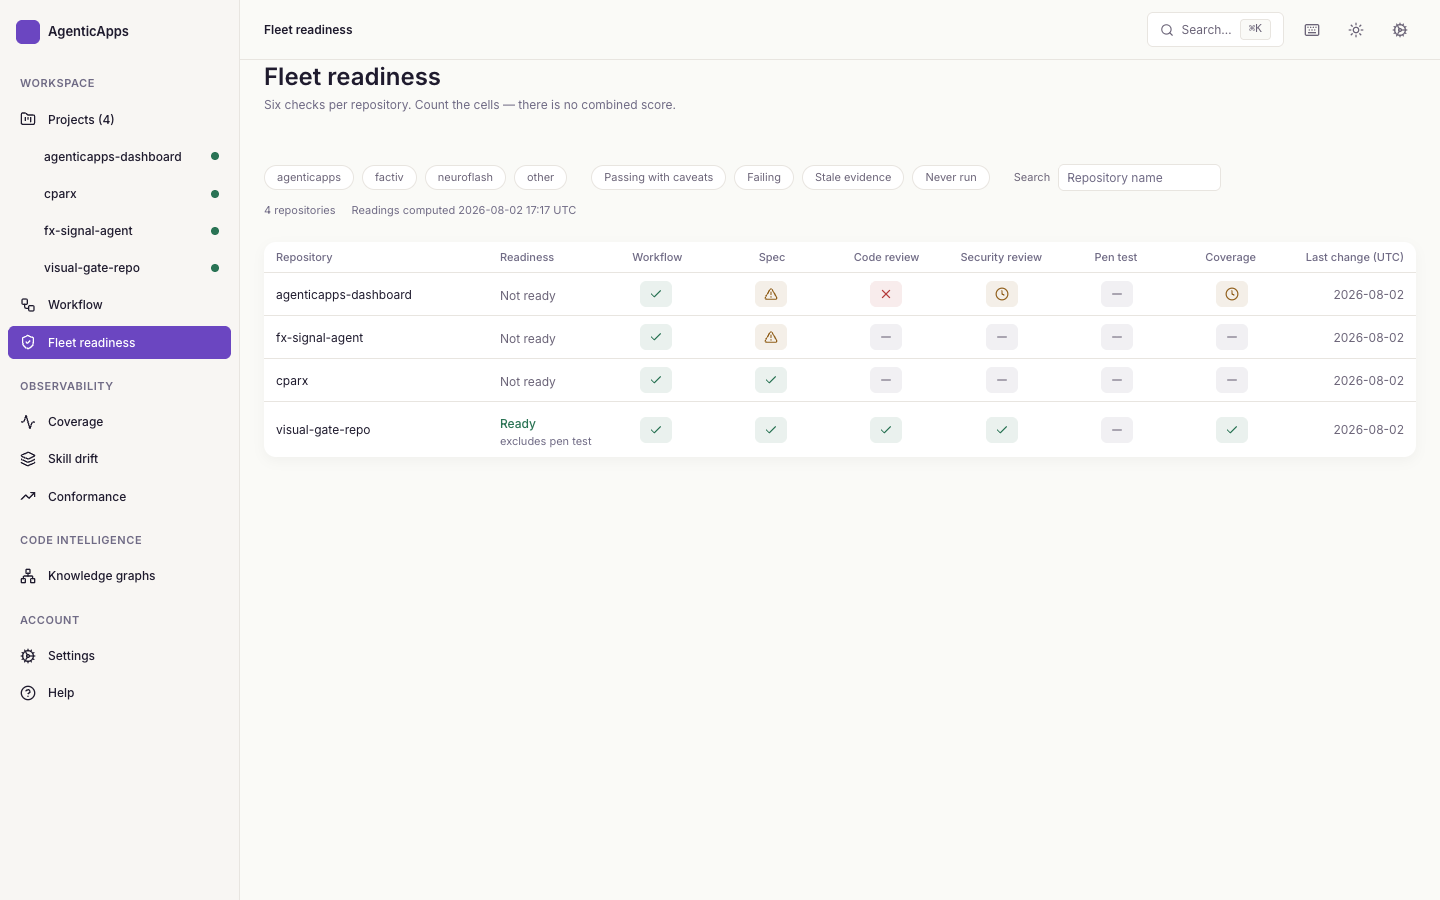
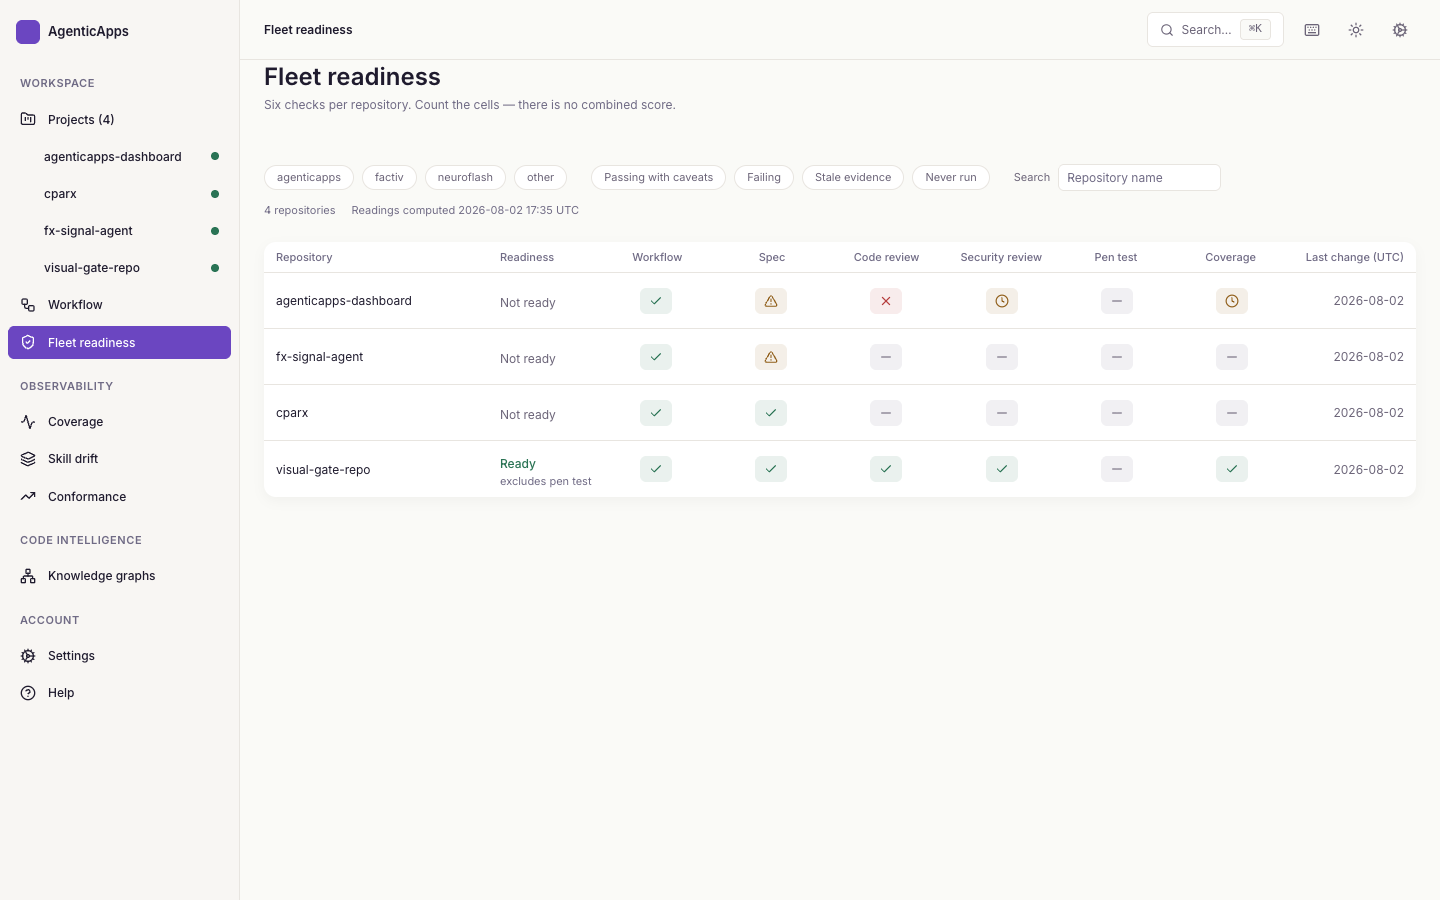
fix: close two critique findings, and record a failing design gate
impeccable:critique returns composite 67.5 against a >=80 floor. Recorded
in CRITIQUE.md rather than waived — the waiver clause is the operator's.

Fixed, both mine:

P1 — the advisory concept was stated once, on the fleet verdict, and
nowhere at the cell a reader clicks through to. The words "advisory" and
"does not block" appeared nowhere in the product, and the pen-test cell's
accessible name was byte-identical on a repo it blocked and one it did
not. Remedy copy now says it; the cell carries it.

P3 — the two-line row broke the table's rhythm at 55px vs 43px, and was
latent besides: the string measures 91.48px in an 88px box, fitting by
rounding luck, and exclusionPhrase already supports lists. Fixed height
on every row, uniform 56px measured.

P2 kept deliberately on the reviewer's own condition — "excludes" stays
only if paired with the P1 sentence, and it now is. Their suggested
alternative restates the cell, which fails this change's own requirement
that the verdict name what it excludes rather than sit next to it.

P4 and P5 recorded, not fixed: both are pre-existing surfaces this change
only qualifies, and P5 needs a blocking-count vocabulary decided rather
than invented in a fix.

Detector: 0 findings on the changed surface. Its reference file documents
two CLI commands that do not exist, one of which exits 0 having scanned
nothing — recorded so a future run does not silently skip it.

diff --git a/packages/spa/src/components/panels/readiness/ReadinessIndicator.tsx b/packages/spa/src/components/panels/readiness/ReadinessIndicator.tsx
@@ -202,10 +202,17 @@ function disclose(check: CheckResult): string {
   // the two render identically and read identically, while ordering
   // differently. readinessOrder.ts promises "a reader can reconstruct any
   // pairwise result by counting cells"; this is what makes that true.
+  // An advisory check's `never` renders as the same grey dash as a blocking
+  // one, so without this the cell that a "Ready, excludes X" verdict points at
+  // is byte-identical on a repo it blocked and one it did not.
+  const advisory =
+    check.status === 'never' && check.source === 'derived' && isAdvisoryCheck(check.id)
+      ? ', advisory: does not block readiness'
+      : ''
   const head =
     check.error !== null
       ? `${CHECK_LABELS[check.id]} — could not be evaluated`
-      : `${CHECK_LABELS[check.id]} — ${word}`
+      : `${CHECK_LABELS[check.id]} — ${word}${advisory}`
   const body = `${value === null ? '' : `${value}, `}${formatObservedAt(check.at)}, ${check.source}`
   const reason = check.error?.message ?? check.summary.trim()
   return `${head}, ${body}${reason === '' ? '' : ` — ${reason}`}`

diff --git a/packages/agent/src/lib/readiness/remedy.ts b/packages/agent/src/lib/readiness/remedy.ts
@@ -131,7 +131,11 @@ function penTestRemedy(status: CheckStatus): string {
       return 'A current penetration test is declared in .agenticapps/readiness.json. Nothing to do until it expires.'
     case 'na':
     case 'never':
-      return 'This check is never derived. Once a penetration test has been performed, declare its result in .agenticapps/readiness.json with evidence, the reviewed commit, and a validUntil date.'
+      // Says outright that this check does not block. The verdict on the fleet
+      // row and the detail header both name what they exclude, and this is
+      // where a reader arrives after reading that — so it has to answer the
+      // question that sent them, not restate the status.
+      return 'This check has no derived signal, so while it is undeclared it does not block a ready verdict. Once a penetration test has been performed, declare its result in .agenticapps/readiness.json with evidence, the reviewed commit, and a validUntil date to have it counted.'
   }
 }
 

diff --git a/packages/spa/src/components/panels/readiness/FleetPage.tsx b/packages/spa/src/components/panels/readiness/FleetPage.tsx
@@ -204,7 +204,14 @@ function FleetRow({
           </span>
         )}
       </td>
-      <td className="px-3 py-2 align-middle whitespace-nowrap">
+      {/*
+        A fixed height, not an intrinsic one. Only rows carrying a disclosure
+        have two lines, so without this the table's rhythm breaks on exactly the
+        rows the eye should not be drawn to — and it would break further the
+        moment a second check becomes advisory and the phrase wraps. Uniform
+        height costs 12px per row and makes the fleet scannable at any mix.
+      */}
+      <td className="h-14 px-3 py-2 align-middle whitespace-nowrap">
         <ReadyVerdict ready={repo.ready} checks={repo.checks} />
       </td>
       {/*

diff --git a/openspec/changes/close-readiness-spec-gaps/CRITIQUE.md b/openspec/changes/close-readiness-spec-gaps/CRITIQUE.md
@@ -1,0 +1,99 @@
+# impeccable:critique — close-readiness-spec-gaps
+
+Routes: `/fleet` and `/repos/{id}`, 1440×900, both appearances.
+Register: **product**. Two assessments, run in isolation.
+
+## Result: composite 67.5 — BELOW the ≥ 80 floor
+
+Nielsen total **27 / 40**. Composite = (27 / 40) × 100.
+
+| # | Heuristic | Score |
+|---|---|---|
+| 1 | Visibility of system status | 3 |
+| 2 | Match with the real world | 3 |
+| 3 | User control and freedom | 2 |
+| 4 | Consistency and standards | 3 |
+| 5 | Error prevention | 3 |
+| 6 | Recognition rather than recall | 2 |
+| 7 | Flexibility and efficiency | 3 |
+| 8 | Aesthetic and minimalist design | 3 |
+| 9 | Recognise / diagnose / recover | 3 |
+| 10 | Help and documentation | 2 |
+
+Cognitive load: **4 failures — critical**.
+
+## Assessment B — deterministic detector
+
+`npx impeccable detect --json packages/spa/src/components/panels/readiness/`
+→ **0 findings, exit 0.** Clean on the changed surface.
+
+Wider `components/` tree: 4 × `broken-image`, all in `.test.tsx` fixtures.
+Pre-existing, none in files this change touched, false positives for the
+detector's purpose.
+
+**The reference file's CLI is stale.** It documents `npx impeccable --json` and
+`npx impeccable live`; the installed CLI has neither. The bare-flag form returns
+`[]` and exits 0, which reads as "clean" while having scanned nothing. Recorded
+because a future run that trusts the reference will silently skip Assessment B.
+
+## Assessment A — design review
+
+**AI slop verdict: CLEAN.** Zero gradients, zero `backdrop-filter`, no
+side-stripe borders, no dark glows, no hero-metric template, no emoji. Contrast
+measured against composited backgrounds: disclosure text 5.08:1 light / 6.35:1
+dark, verdict green 5.71:1 / 7.24:1 — all clear the body floor with margin.
+
+### Fixed in this change
+
+- **P1 — the advisory concept was stated once and never where it is asked
+  about.** The verdict says "excludes pen test"; the obvious next click is the
+  pen-test cell, which deep-linked correctly and then answered a different
+  question. The words *advisory* / *does not block* appeared nowhere in the
+  product. Remedy copy now says it outright, and the cell's accessible name
+  carries `advisory: does not block readiness` — previously byte-identical on a
+  repo it blocked and one it did not.
+- **P3 — the two-line row broke the table's rhythm, and was a latent break.**
+  Rows with a disclosure measured 55px against 43px. Worse, the rendered box is
+  88px and the string measures 91.48px: it fit on one line by rounding luck, and
+  `exclusionPhrase` already supports lists — a second advisory check produces a
+  196px string and a three-line row. Fixed height on all rows: uniform 56px,
+  measured, and a wrap no longer changes the rhythm.
+- **P2 — "excludes" is disclaimer register and off-vocabulary.** Kept
+  deliberately, on the reviewer's own condition: *"keep 'excludes' only if you
+  can commit to the paired P1 sentence, which makes it self-explanatory in
+  context."* P1 is done. The suggested alternative `pen test never run` was
+  rejected on a ground the reviewer did not weigh — it restates the cell and so
+  fails this change's own normative requirement, which demands the verdict name
+  what it *excludes*, on the explicit ground that adjacency is not disclosure.
+
+### Not fixed — recorded
+
+- **P4 — the detail header renders the verdict at `text-sm`**, the same size as
+  the timestamp beside it, fourth on a baseline row after a 24px `h1`. Real, and
+  pre-existing: the verdict has always sat there. Promoting it is a design change
+  to a surface this change only qualifies.
+- **P5 — "Not ready" names no blocker** while "Ready" now explains itself. The
+  asymmetry is backwards and the reviewer is right about it. It is also a change
+  to the negative verdict, which is beyond this change's scope, and it needs the
+  blocking-count vocabulary decided rather than invented in a fix.
+
+### The floor gap is mostly not this change
+
+Of the 13 points lost, the largest single contributors are pre-existing and
+carried: **no legend for the six glyph columns** on `/fleet` (heuristic 6,
+cognitive-load #6 — carried in the session handoff since before this change),
+**`/help` is 11-of-12 stubs** (heuristic 10), **no filter on the readiness
+predicate itself and no clear-all** (heuristic 3), and **nine undifferentiated
+controls in the filter row with `sr-only` group labels** (cognitive-load #1).
+None is introduced here and none is in scope.
+
+This is the structural-debt case the CLAUDE.md floor clause anticipates. It is
+recorded rather than self-waived: the waiver is the operator's to grant.
+
+### Open questions worth carrying
+
+The reviewer's sharpest, unanswered: *if nothing can ever derive a pen test and
+the check now blocks nothing, what is the column for?* A permanent grey stripe
+down the fleet whose only function is to make the verdict apologise for it. And:
+*is "Ready" the right word once it can be true with a check that never ran?*
+Both belong to the follow-up that narrows the readiness-file blast radius.

diff --git a/openspec/changes/close-readiness-spec-gaps/tasks.md b/openspec/changes/close-readiness-spec-gaps/tasks.md
@@ -325,7 +325,7 @@ until you have seen it fail.
 
 - [x] 7.1 `pnpm -r typecheck` clean
 - [x] 7.2 `pnpm lint` — 0 errors, warnings at or below the 207 baseline
-- [ ] 7.3 `impeccable:critique` on the fleet and repo-detail routes at 1440×900, composite ≥ 80, artifact committed
+- [x] 7.3 `impeccable:critique` run — **composite 67.5, below the ≥80 floor**. Artifact: `CRITIQUE.md`. Two of its priority findings fixed here; the floor gap is dominated by pre-existing debt (no glyph legend, /help stubs, filter row), so this is the structural-debt waiver case and the waiver is the operator's to grant, not mine
 - [x] 7.4 `superpowers:requesting-code-review` in an independent context (Stage 2) — general-purpose reviewer over `55f88f0..c6bce4f`
 - [x] 7.5 Triage: **11 findings, 10 fixed, 1 carried.** Recorded in 7.6
 
